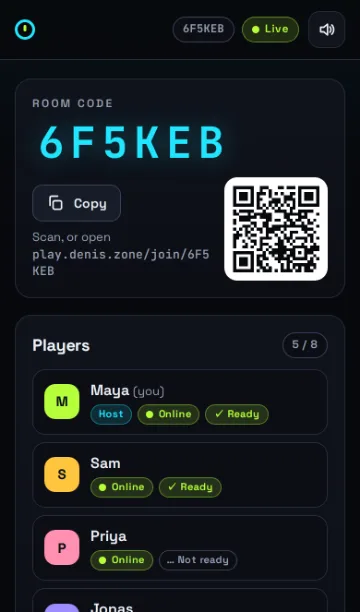
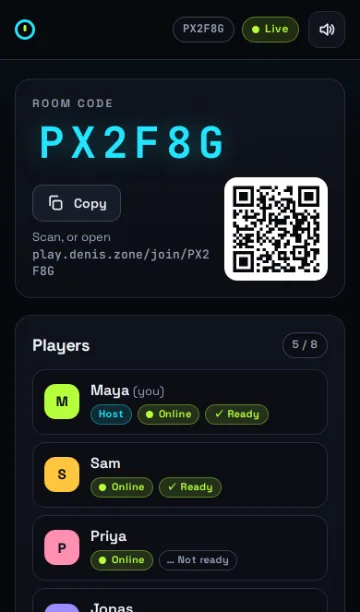
Last One Standing: all three screenshots from one five-player match
Lobby, Maya's first turn and the winner screen now come from the same
live room (PX2F8G), so the winner reads 4 rounds of 5 players.

diff --git a/index.html b/index.html
@@ -385,7 +385,7 @@ main#main-content{position:relative;isolation:isolate}
 <span class="output-line"> </span></div></div></div><div class="wrap hero"><div><div class="eyebrow">Denis Martins / Software Engineer</div><h1>I make<br>things <em>work.</em></h1><p class="lead">I like making complicated things simpler. Sometimes that means untangling software that keeps a business running. Other times it means building a word game because the idea wouldn’t leave me alone.</p><div class="hero-links"><a href="#work">Selected work ↗</a><a href="#about">A bit about me ↗</a></div></div><div class="terminal" aria-label="Interactive terminal"><div class="terminal-bar"><span>denis@zone: ~</span><span>– □ ×</span></div><div class="terminal-inner" id="term-area"><div class="out"><span class="prompt">$</span> <span class="command">whoami</span><br>Denis Martins<br>Software engineer. Arsenal supporter.<br>Usually planning the next trip.</div><div class="out"><span class="prompt">$</span> <span class="command">ls</span><br><span class="prompt">work/ &nbsp; projects/ &nbsp; notes/ &nbsp; life/</span></div><form id="terminal-form"><span class="prompt">$</span><input id="terminal-input" aria-label="Enter a terminal command" placeholder="type help" autocapitalize="off" autocomplete="off" spellcheck="false"></form><div class="hint terminal-hint"><span class="hint-label">Try a command:</span> <button type="button" data-terminal-command="help">help</button> <button type="button" data-terminal-command="experience">experience</button> <button type="button" data-terminal-command="projects">projects</button> <button type="button" data-terminal-command="random">random</button></div></div></div></div><div class="rule"><section class="wrap section" id="work"><div class="section-top"><div><span class="eyebrow">01 / Things I’ve made</span><h2>Selected work</h2></div><p class="section-note">Things I’ve built, things I’m figuring out, and the occasional idea that got out of hand.</p></div><div class="work-list">
 <div class="work-project"><div class="work-item"><span class="number">01</span><span class="work-name">The day job</span><span class="work-copy">APIs, integrations and the platforms behind them, on Azure and AWS.</span><details class="project-peek" open id="sys-peek"><summary aria-label="Preview the day job"><span aria-hidden="true">+</span></summary></details></div><div class="work-preview"><div class="preview-visual systems-visual" aria-label="Illustration of systems connecting"><span class="preview-kicker">BEHIND THE SCENES</span><svg class="sys-diagram sys-wide" viewBox="0 0 600 354" role="img" aria-labelledby="sys-t"><title id="sys-t">Sales journeys, an agent sales app and a renewal portal call a signup and orders API and an energy quoting API, which share a database. The quoting API calls energy supplier APIs directly. The APIs publish business events to a message bus; independent CRM, email and SMS bridges subscribe and sync each event to their external platform. Email activity feeds and SMS delivery receipts, which arrive by webhook, are published back to the bus.</title><defs><marker id="gw" viewBox="0 0 8 8" refX="7" refY="4" markerWidth="6" markerHeight="6" orient="auto"><path d="M0 0 8 4 0 8z" fill="#b0c69a"/></marker><marker id="ow" viewBox="0 0 8 8" refX="7" refY="4" markerWidth="6" markerHeight="6" orient="auto"><path d="M0 0 8 4 0 8z" fill="#dda980"/></marker></defs><text x="2" y="18" font-family="Geist Mono,ui-monospace,monospace" font-size="9" letter-spacing=".12em" fill="#8d978a">CLIENTS</text><rect x="106" y="4" width="330" height="326" rx="4" fill="none" stroke="#3a453c" stroke-dasharray="3 4"/><text x="114" y="18" font-family="Geist Mono,ui-monospace,monospace" font-size="9" letter-spacing=".12em" fill="#8d978a">CLOUD PLATFORM</text><rect x="444" y="4" width="154" height="326" rx="4" fill="none" stroke="#3a453c" stroke-dasharray="3 4"/><text x="452" y="18" font-family="Geist Mono,ui-monospace,monospace" font-size="9" letter-spacing=".12em" fill="#8d978a">EXTERNAL</text><g font-family="Geist Mono,ui-monospace,monospace" font-size="11" fill="#d9ddd4" text-anchor="middle"><rect x="0" y="44" width="94" height="40" rx="2" fill="#1b221d" stroke="#475149"/><text x="47.0" y="61.0">Sales</text><text x="47.0" y="75.0">journeys</text><rect x="0" y="132" width="94" height="40" rx="2" fill="#1b221d" stroke="#475149"/><text x="47.0" y="149.0">Agent</text><text x="47.0" y="163.0">sales app</text><rect x="0" y="220" width="94" height="40" rx="2" fill="#1b221d" stroke="#475149"/><text x="47.0" y="237.0">Renewal</text><text x="47.0" y="251.0">portal</text><rect x="120" y="52" width="108" height="44" rx="2" fill="#20291f" stroke="#b0c69a"/><text x="174.0" y="71.0" fill="#b0c69a">Signup &amp;</text><text x="174.0" y="85.0" fill="#b0c69a">orders API</text><rect x="128" y="128" width="92" height="34" rx="2" fill="#1b221d" stroke="#475149"/><text x="163" y="149.0">Shared DB</text><path d="M200 138.0v12a6 2.4 0 0 0 12 0v-12" fill="#141917" stroke="#7f8f7c"/><ellipse cx="206" cy="138.0" rx="6" ry="2.4" fill="#141917" stroke="#7f8f7c"/><rect x="120" y="196" width="108" height="44" rx="2" fill="#20291f" stroke="#b0c69a"/><text x="174.0" y="215.0" fill="#b0c69a">Energy</text><text x="174.0" y="229.0" fill="#b0c69a">quoting API</text><rect x="246" y="36" width="22" height="240" rx="2" fill="#20291f" stroke="#b0c69a"/><text x="257" y="156" fill="#b0c69a" font-size="10" letter-spacing=".14em" transform="rotate(-90 257 156)" dy="3.5">MESSAGE BUS</text><rect x="286" y="44" width="140" height="40" rx="2" fill="#1b221d" stroke="#475149"/><text x="356.0" y="68.0">CRM bridge</text><rect x="286" y="132" width="140" height="40" rx="2" fill="#1b221d" stroke="#475149"/><text x="356.0" y="156.0">Email bridge</text><rect x="286" y="220" width="140" height="40" rx="2" fill="#1b221d" stroke="#475149"/><text x="356.0" y="244.0">SMS service</text><rect x="454" y="44" width="136" height="40" rx="2" fill="#1b221d" stroke="#475149"/><text x="522.0" y="68.0">CRM</text><rect x="454" y="132" width="136" height="40" rx="2" fill="#1b221d" stroke="#475149"/><text x="522.0" y="156.0">Email marketing</text><rect x="454" y="220" width="136" height="40" rx="2" fill="#1b221d" stroke="#475149"/><text x="522.0" y="244.0">SMS provider</text><rect x="454" y="288" width="136" height="36" rx="2" fill="#1b221d" stroke="#475149"/><text x="522.0" y="310.0">Energy suppliers</text></g><g fill="none" stroke="#7f8f7c" stroke-width="1.2"><path d="M174 96V128"/><path d="M174 196V162"/></g><g fill="none" stroke="#b0c69a" stroke-width="1.4" marker-end="url(#gw)"><path d="M94 62C108 62 104 68 118 68"/><path d="M94 72C110 72 102 212 118 212"/><path d="M94 148C108 148 104 84 118 84"/><path d="M94 158C110 158 102 226 118 226"/><path d="M94 240C110 240 102 92 118 92"/><path d="M426 64H452"/><path d="M426 152H452"/><path d="M426 240H452"/><path d="M228 232C240 232 238 306 252 306H452"/></g><g fill="none" stroke="#b0c69a" stroke-width="1.4" stroke-dasharray="4 3" marker-end="url(#gw)"><path d="M228 74H244"/><path d="M228 218H244"/><path d="M268 58H284"/><path d="M268 146H284"/><path d="M268 234H284"/><path d="M286 162H270"/><path d="M286 250H270"/><path d="M452 164H428"/></g><g fill="none" stroke="#dda980" stroke-width="1.2" stroke-dasharray="4 3" marker-end="url(#ow)"><path d="M452 252H428"/></g><text x="356" y="186" font-family="Geist Mono,ui-monospace,monospace" font-size="9" fill="#8fa58a" text-anchor="middle">activity feed</text><text x="356" y="274" font-family="Geist Mono,ui-monospace,monospace" font-size="9" fill="#dda980" text-anchor="middle">delivery receipts</text><g font-family="Geist Mono,ui-monospace,monospace" font-size="10" fill="#a3a99e"><path d="M2 342h22" stroke="#b0c69a" stroke-width="1.4"/><text x="30" y="346">HTTP / REST</text><path d="M150 342h22" stroke="#b0c69a" stroke-width="1.4" stroke-dasharray="4 3"/><text x="178" y="346">events &amp; feeds</text><path d="M320 342h22" stroke="#dda980" stroke-width="1.2" stroke-dasharray="4 3"/><text x="348" y="346">webhooks</text></g></svg><svg class="sys-diagram sys-tall" viewBox="0 0 322 448" role="img" aria-labelledby="sys-t2"><title id="sys-t2">Sales journeys, an agent sales app and a renewal portal call a signup and orders API and an energy quoting API, which share a database. The quoting API calls energy supplier APIs directly. The APIs publish business events to a message bus; independent CRM, email and SMS bridges subscribe and sync each event to their external platform. Email activity feeds and SMS delivery receipts, which arrive by webhook, are published back to the bus.</title><defs><marker id="gt" viewBox="0 0 8 8" refX="7" refY="4" markerWidth="6" markerHeight="6" orient="auto"><path d="M0 0 8 4 0 8z" fill="#b0c69a"/></marker><marker id="ot" viewBox="0 0 8 8" refX="7" refY="4" markerWidth="6" markerHeight="6" orient="auto"><path d="M0 0 8 4 0 8z" fill="#dda980"/></marker></defs><text x="2" y="10" font-family="Geist Mono,ui-monospace,monospace" font-size="9" letter-spacing=".12em" fill="#8d978a">CLIENTS</text><rect x="0" y="70" width="322" height="232" rx="4" fill="none" stroke="#3a453c" stroke-dasharray="3 4"/><text x="8" y="84" font-family="Geist Mono,ui-monospace,monospace" font-size="9" letter-spacing=".12em" fill="#8d978a">CLOUD PLATFORM</text><rect x="0" y="318" width="322" height="96" rx="4" fill="none" stroke="#3a453c" stroke-dasharray="3 4"/><text x="8" y="332" font-family="Geist Mono,ui-monospace,monospace" font-size="9" letter-spacing=".12em" fill="#8d978a">EXTERNAL</text><g font-family="Geist Mono,ui-monospace,monospace" font-size="11" fill="#d9ddd4" text-anchor="middle"><rect x="6" y="16" width="100" height="40" rx="2" fill="#1b221d" stroke="#475149"/><text x="56.0" y="33.0">Sales</text><text x="56.0" y="47.0">journeys</text><rect x="111" y="16" width="100" height="40" rx="2" fill="#1b221d" stroke="#475149"/><text x="161.0" y="33.0">Agent</text><text x="161.0" y="47.0">sales app</text><rect x="216" y="16" width="100" height="40" rx="2" fill="#1b221d" stroke="#475149"/><text x="266.0" y="33.0">Renewal</text><text x="266.0" y="47.0">portal</text><rect x="6" y="96" width="100" height="40" rx="2" fill="#20291f" stroke="#b0c69a"/><text x="56.0" y="113.0" fill="#b0c69a">Signup &amp;</text><text x="56.0" y="127.0" fill="#b0c69a">orders API</text><rect x="112" y="100" width="96" height="32" rx="2" fill="#1b221d" stroke="#475149"/><text x="146" y="120.0">Shared DB</text><path d="M188 109.0v12a6 2.4 0 0 0 12 0v-12" fill="#141917" stroke="#7f8f7c"/><ellipse cx="194" cy="109.0" rx="6" ry="2.4" fill="#141917" stroke="#7f8f7c"/><rect x="214" y="96" width="102" height="40" rx="2" fill="#20291f" stroke="#b0c69a"/><text x="265.0" y="113.0" fill="#b0c69a">Energy</text><text x="265.0" y="127.0" fill="#b0c69a">quoting API</text><rect x="6" y="196" width="282" height="22" rx="2" fill="#20291f" stroke="#b0c69a"/><text x="147" y="211" fill="#b0c69a" font-size="10" letter-spacing=".14em">MESSAGE BUS</text><rect x="6" y="248" width="90" height="36" rx="2" fill="#1b221d" stroke="#475149"/><text x="51.0" y="270.0">CRM bridge</text><rect x="102" y="248" width="90" height="36" rx="2" fill="#1b221d" stroke="#475149"/><text x="147.0" y="270.0">Email bridge</text><rect x="198" y="248" width="90" height="36" rx="2" fill="#1b221d" stroke="#475149"/><text x="243.0" y="270.0">SMS service</text><rect x="6" y="344" width="74" height="40" rx="2" fill="#1b221d" stroke="#475149"/><text x="43.0" y="368.0">CRM</text><rect x="84" y="344" width="74" height="40" rx="2" fill="#1b221d" stroke="#475149"/><text x="121.0" y="361.0">Email</text><text x="121.0" y="375.0">marketing</text><rect x="162" y="344" width="74" height="40" rx="2" fill="#1b221d" stroke="#475149"/><text x="199.0" y="361.0">SMS</text><text x="199.0" y="375.0">provider</text><rect x="240" y="344" width="76" height="40" rx="2" fill="#1b221d" stroke="#475149"/><text x="278.0" y="361.0">Energy</text><text x="278.0" y="375.0">suppliers</text></g><g fill="none" stroke="#7f8f7c" stroke-width="1.2"><path d="M106 116H112"/><path d="M214 116H208"/></g><g fill="none" stroke="#b0c69a" stroke-width="1.4"><path d="M56 56V65M161 56V65M266 56V65M56 65H266"/></g><g fill="none" stroke="#b0c69a" stroke-width="1.4" marker-end="url(#gt)"><path d="M56 65V94"/><path d="M265 65V94"/><path d="M45 284V342"/><path d="M150 284C150 314 140 314 140 342"/><path d="M245 284C245 314 226 314 226 342"/><path d="M302 136V306C302 326 290 322 290 342"/></g><g fill="none" stroke="#b0c69a" stroke-width="1.4" stroke-dasharray="4 3" marker-end="url(#gt)"><path d="M40 136V194"/><path d="M240 136V194"/><path d="M45 218V246"/><path d="M141 218V246"/><path d="M237 218V246"/><path d="M160 248V220"/><path d="M256 248V220"/><path d="M98 342C98 314 116 314 116 286"/></g><g fill="none" stroke="#dda980" stroke-width="1.2" stroke-dasharray="4 3" marker-end="url(#ot)"><path d="M172 342C172 314 208 314 208 286"/></g><g font-family="Geist Mono,ui-monospace,monospace" font-size="10" fill="#a3a99e"><path d="M2 436h22" stroke="#b0c69a" stroke-width="1.4"/><text x="30" y="440">HTTP / REST</text><path d="M106 436h20" stroke="#b0c69a" stroke-width="1.4" stroke-dasharray="4 3"/><text x="131" y="440">events &amp; feeds</text><path d="M230 436h20" stroke="#dda980" stroke-width="1.2" stroke-dasharray="4 3"/><text x="255" y="440">webhooks</text></g></svg><div class="runs-on"><span class="preview-kicker">RUNS ON THE CLOUD</span><ul><li>Containers</li><li>Serverless functions</li><li>Message queues</li><li>Infrastructure as code</li><li>CI/CD pipelines</li><li>Monitoring &amp; tracing</li></ul></div><span class="preview-small">A simplified picture, not a production diagram</span></div><div class="preview-copy"><span class="eyebrow">01 / ENGINEERING</span><h3>Make the pieces work together.</h3><p>Platform modernisation, supplier integrations, APIs and event-driven workflows, built and run in the cloud on Azure and AWS. The kind of engineering you notice most when it stops working.</p><a href="experience.html" class="preview-link"><svg class="ui-icon" viewBox="0 0 24 24" width="15" height="15" fill="none" stroke="currentColor" stroke-width="1.6" stroke-linecap="round" stroke-linejoin="round" aria-hidden="true"><path d="M3 5h7a4 4 0 0 1 4 4v11a4 4 0 0 0-4-4H3zM21 5h-7a4 4 0 0 0-4 4"/></svg>Explore my experience ↗</a></div></div></div>
 <div class="work-project"><div class="work-item"><span class="number">02</span><span class="work-name">Word Duel</span><span class="work-copy">A real-time word game where the server referees every move.</span><details class="project-peek" id="duel-peek"><summary aria-label="Preview Word Duel"><span aria-hidden="true">+</span></summary></details></div><button type="button" class="demo-cta" id="demo-cta">▸ Play the demo</button><div class="work-preview"><div class="preview-visual word-visual" aria-label="Playable Word Duel letter-tile mini demo"><span class="preview-kicker">A WORD LEADS TO ANOTHER</span><div class="word-mini" id="word-mini"><div class="word-feature-heading">WORD DUEL <span>MINI / 1 LETTER</span></div><div class="word-mini-meta"><span>CHANGE ONE LETTER</span><span id="word-mini-streak">STREAK 0</span></div><div class="word-mini-dashboard"><div class="word-mini-clock" role="timer" aria-label="Time remaining"><span>TIME LEFT</span><strong id="word-mini-time">1:00</strong></div><div class="word-mini-last"><span>LAST WORD</span><strong id="word-mini-last">—</strong></div></div><div class="word-mini-definition"><span>CURRENT WORD &amp; MEANING</span><div><strong id="word-mini-current">—</strong><p id="word-mini-meaning">Loading meaning…</p></div></div><div class="word-mini-history"><span>YOUR WORDS</span><div id="word-mini-history" aria-label="Words played in this round">—</div></div><div class="word-mini-tiles" id="word-mini-tiles" role="group" aria-label="Edit one letter to make a new four-letter word"></div><div class="word-mini-alphabet" id="word-mini-alphabet" aria-label="Choose a replacement letter"></div><div class="word-mini-controls"><button type="button" id="word-mini-submit">Submit word ↗</button><button type="button" id="word-mini-reset">New round ↻</button></div><div id="word-mini-feedback" class="word-mini-feedback" role="status" aria-live="polite">Tap a tile, then choose a letter.</div><span class="preview-small">Uses the four-letter dictionary from the full game · one change per move</span></div></div><div class="preview-copy"><span class="eyebrow">02 / PLAY</span><h3>One word. Your turn.</h3><p>Change exactly one letter to form a valid new word, without repeating a word. Try the four-letter demo, then play the full timed multiplayer game.</p><a href="https://duel.denis.zone/" target="_blank" rel="noopener noreferrer" class="preview-link"><svg class="ui-icon" viewBox="0 0 24 24" width="15" height="15" fill="none" stroke="currentColor" stroke-width="1.6" stroke-linecap="round" stroke-linejoin="round" aria-hidden="true"><path d="m8 5 11 7-11 7z"/></svg>Play the full game ↗</a><details class="engineering-details"><summary>How I built it <span aria-hidden="true">↘</span></summary><div class="engineering-content"><p class="engineering-intro">Word Duel looks simple on the surface. Underneath, it’s a real-time multiplayer system where every move must be fair, even when two players act at once or a connection drops.</p><div class="engineering-item"><span class="engineering-num">01</span><div><strong>One source of truth</strong><p>Each game room is a Cloudflare Durable Object that applies moves one at a time and pushes the new state to both players over WebSockets. Clients can display the game, but they cannot rewrite the room.</p></div></div><div class="engineering-item"><span class="engineering-num">02</span><div><strong>Rules that survive concurrency</strong><p>Dictionary checks, exact letter changes, turn ownership, deadlines and previously used words are enforced together. A shared used-word set persists across rematches.</p></div></div><div class="engineering-item"><span class="engineering-num">03</span><div><strong>Computer opponents without shortcuts</strong><p>The bot plays through the same server-side rules as a human. Easy, medium and hard modes vary think time and move strategy rather than bypassing validation.</p></div></div><div class="engineering-item"><span class="engineering-num">04</span><div><strong>The details matter</strong><p>Server-defined turn deadlines driven by alarms, cleanup of idle rooms, dictionary-based word meanings, and idempotent match-result recording keep the experience consistent.</p></div></div><div class="engineering-tech">Vite · JavaScript · Cloudflare Workers · Durable Objects · WebSockets · WordNet</div><a href="https://github.com/bornonthe12th/word-duel" target="_blank" rel="noopener noreferrer" class="preview-link"><svg class="ui-icon" viewBox="0 0 24 24" width="15" height="15" fill="none" stroke="currentColor" stroke-width="1.6" stroke-linecap="round" stroke-linejoin="round" aria-hidden="true"><path d="m8 8-4 4 4 4m8-8 4 4-4 4m-3-11-2 18"/></svg>Explore the source on GitHub ↗</a></div></details></div></div></div>
-<div class="work-project"><div class="work-item"><span class="number">03</span><span class="work-name">Last One Standing</span><span class="work-copy">A party game for 2–8 players: hold the button, let go on time, don’t be the worst.</span><details class="project-peek"><summary aria-label="Preview Last One Standing"><span aria-hidden="true">+</span></summary></details></div><div class="work-preview"><div class="preview-visual timer-visual"><span class="preview-kicker">TIMER SHOWDOWN / THE REAL GAME</span><div class="los-phones"><figure><img src="/assets/projects/los-lobby.webp" width="360" height="612" loading="lazy" decoding="async" alt="Last One Standing lobby with a room code, QR code and five players"><figcaption>Lobby</figcaption></figure><figure><img src="/assets/projects/los-turn.webp" width="360" height="612" loading="lazy" decoding="async" alt="A Precision Knockout turn mid-hold at 0.95 seconds against a 1.00 second target"><figcaption>Your turn</figcaption></figure><figure><img src="/assets/projects/los-winner.webp" width="360" height="612" loading="lazy" decoding="async" alt="Winner screen crowning Maya, with the match summary"><figcaption>Last one standing</figcaption></figure></div><div class="los-try"><span class="preview-small">Try it here</span><div class="timer-readout" id="timer-display" aria-label="Elapsed time in minutes, seconds and hundredths">00:00<span>.00</span></div><div class="timer-track" aria-hidden="true"><i id="timer-progress"></i></div><div class="timer-actions"><button type="button" id="timer-action">Start timer</button><span class="timer-feedback" id="timer-feedback" role="status" aria-live="polite">Try to stop at exactly 5.00 seconds.</span></div></div></div><div class="preview-copy"><span class="eyebrow">03 / GAME</span><h3>Timing is everything.</h3><p>Everyone holds a button and lets go on time. The worst attempt each round is knocked out until one player is left. Four game modes, a hidden-timer option, and Pass &amp; Play for one shared phone. Try the five-second challenge in the preview.</p><a href="https://play.denis.zone/" target="_blank" rel="noopener noreferrer" class="preview-link"><svg class="ui-icon" viewBox="0 0 24 24" width="15" height="15" fill="none" stroke="currentColor" stroke-width="1.6" stroke-linecap="round" stroke-linejoin="round" aria-hidden="true"><path d="m8 5 11 7-11 7z"/></svg>Play the full game ↗</a></div></div></div>
+<div class="work-project"><div class="work-item"><span class="number">03</span><span class="work-name">Last One Standing</span><span class="work-copy">A party game for 2–8 players: hold the button, let go on time, don’t be the worst.</span><details class="project-peek"><summary aria-label="Preview Last One Standing"><span aria-hidden="true">+</span></summary></details></div><div class="work-preview"><div class="preview-visual timer-visual"><span class="preview-kicker">TIMER SHOWDOWN / THE REAL GAME</span><div class="los-phones"><figure><img src="/assets/projects/los-lobby.webp" width="360" height="612" loading="lazy" decoding="async" alt="Last One Standing lobby with a room code, QR code and five players"><figcaption>Lobby</figcaption></figure><figure><img src="/assets/projects/los-turn.webp" width="360" height="612" loading="lazy" decoding="async" alt="A Precision Knockout turn mid-hold at 1.04 seconds against a 1.00 second target"><figcaption>Your turn</figcaption></figure><figure><img src="/assets/projects/los-winner.webp" width="360" height="612" loading="lazy" decoding="async" alt="Winner screen crowning Maya, with the match summary"><figcaption>Last one standing</figcaption></figure></div><div class="los-try"><span class="preview-small">Try it here</span><div class="timer-readout" id="timer-display" aria-label="Elapsed time in minutes, seconds and hundredths">00:00<span>.00</span></div><div class="timer-track" aria-hidden="true"><i id="timer-progress"></i></div><div class="timer-actions"><button type="button" id="timer-action">Start timer</button><span class="timer-feedback" id="timer-feedback" role="status" aria-live="polite">Try to stop at exactly 5.00 seconds.</span></div></div></div><div class="preview-copy"><span class="eyebrow">03 / GAME</span><h3>Timing is everything.</h3><p>Everyone holds a button and lets go on time. The worst attempt each round is knocked out until one player is left. Four game modes, a hidden-timer option, and Pass &amp; Play for one shared phone. Try the five-second challenge in the preview.</p><a href="https://play.denis.zone/" target="_blank" rel="noopener noreferrer" class="preview-link"><svg class="ui-icon" viewBox="0 0 24 24" width="15" height="15" fill="none" stroke="currentColor" stroke-width="1.6" stroke-linecap="round" stroke-linejoin="round" aria-hidden="true"><path d="m8 5 11 7-11 7z"/></svg>Play the full game ↗</a></div></div></div>
 
 </div></section></div><div class="rule"><section class="wrap section personal-section" id="about"><div class="section-top"><div><span class="eyebrow">02 / Beyond the keyboard</span><h2>A little more human.</h2></div><p class="section-note">Software pays the bills. There’s quite a bit more to me.</p></div><div class="personal-feature"><div><p class="personal-lead">Away from the screen, I’m usually lifting weights, worrying about Arsenal, planning the next trip or finding somewhere good to eat.</p></div></div><div class="about-strip"><a class="about-tile" href="about.html#football"><img src="/assets/photos/arsenal-dressing-room-480.webp" width="480" height="640" loading="lazy" decoding="async" alt=""><span class="at-label"><i>01 / Match day</i>Arsenal. Always.</span></a><a class="about-tile" href="about.html#places"><img src="/assets/photos/volcanic-rocks-480.webp" width="480" height="640" loading="lazy" decoding="async" alt=""><span class="at-label"><i>02 / Somewhere else</i>More stamps, fewer spreadsheets.</span></a><a class="about-tile" href="about.html#food"><img src="/assets/photos/restaurant-table-480.webp" width="480" height="854" loading="lazy" decoding="async" alt=""><span class="at-label"><i>03 / The good stuff</i>Food is part of the trip.</span></a><a class="about-tile" href="about.html#training"><img src="/assets/photos/gym-training-480.webp" width="480" height="945" loading="lazy" decoding="async" alt=""><span class="at-label"><i>04 / The gym</i>One more rep.</span></a></div><div class="personal-outro"><p>I’m curious by nature. Sometimes that ends in a side project; other times it ends in a conversation, an unexpected destination or another idea I probably didn’t need.</p><a class="personal-more" href="about.html">More about me <span aria-hidden="true">↗</span></a></div></section></div><div class="rule"><section class="wrap section notes-grid" id="notes"><div><div class="section-top"><div><span class="eyebrow">03 / Notebook</span><h2>Notes from the bench</h2></div></div><div class="entry"><span class="entry-date">NOTE 01</span><div><a class="entry-title" href="notes/building-word-duel.html">A word game became a systems problem <span class="nudge" aria-hidden="true">↗</span></a><p class="entry-text">Server-side rules, real-time multiplayer and the engineering behind Word Duel.</p><span class="entry-published"><svg class="ui-icon" viewBox="0 0 24 24" width="15" height="15" fill="none" stroke="currentColor" stroke-width="1.6" stroke-linecap="round" stroke-linejoin="round" aria-hidden="true"><rect x="3" y="5" width="18" height="16" rx="2"/><path d="M7 3v4m10-4v4M3 10h18"/></svg><time datetime="2026-10-19">19 Oct 2026</time> <span aria-hidden="true">·</span> <svg class="ui-icon" viewBox="0 0 24 24" width="15" height="15" fill="none" stroke="currentColor" stroke-width="1.6" stroke-linecap="round" stroke-linejoin="round" aria-hidden="true"><circle cx="12" cy="12" r="9"/><path d="M12 7v5l3 2"/></svg>2 min read</span></div></div><div class="entry"><span class="entry-date">NOTE 02</span><div><a class="entry-title" href="notes/conversations-were-losing-to-ai.html">The Conversations We’re Losing to AI <span class="nudge" aria-hidden="true">↗</span></a><p class="entry-text">What happens to engineering teams when everyone solves problems with an assistant?</p><span class="entry-published"><svg class="ui-icon" viewBox="0 0 24 24" width="15" height="15" fill="none" stroke="currentColor" stroke-width="1.6" stroke-linecap="round" stroke-linejoin="round" aria-hidden="true"><rect x="3" y="5" width="18" height="16" rx="2"/><path d="M7 3v4m10-4v4M3 10h18"/></svg><time datetime="2026-06-14">14 Jun 2026</time> <span aria-hidden="true">·</span> <svg class="ui-icon" viewBox="0 0 24 24" width="15" height="15" fill="none" stroke="currentColor" stroke-width="1.6" stroke-linecap="round" stroke-linejoin="round" aria-hidden="true"><circle cx="12" cy="12" r="9"/><path d="M12 7v5l3 2"/></svg>4 min read</span></div></div><div class="entry"><span class="entry-date">NOTE 03</span><div><a class="entry-title" href="notes/modernising-without-rewriting.html">Modernising without starting again <span class="nudge" aria-hidden="true">↗</span></a><p class="entry-text">Lessons from upgrading mature systems without rewriting everything.</p><span class="entry-published"><svg class="ui-icon" viewBox="0 0 24 24" width="15" height="15" fill="none" stroke="currentColor" stroke-width="1.6" stroke-linecap="round" stroke-linejoin="round" aria-hidden="true"><rect x="3" y="5" width="18" height="16" rx="2"/><path d="M7 3v4m10-4v4M3 10h18"/></svg><time datetime="2026-02-03">3 Feb 2026</time> <span aria-hidden="true">·</span> <svg class="ui-icon" viewBox="0 0 24 24" width="15" height="15" fill="none" stroke="currentColor" stroke-width="1.6" stroke-linecap="round" stroke-linejoin="round" aria-hidden="true"><circle cx="12" cy="12" r="9"/><path d="M12 7v5l3 2"/></svg>1 min read</span></div></div></div></section></div><div class="rule"><section class="wrap section contact" id="contact"><div class="contact-grid"><div class="contact-main"><span class="eyebrow">04 / Contact</span><h2>Get in touch</h2><p class="contact-line">Have a project, an interesting engineering problem, or just want to say hello?</p><div class="contact-actions"><a class="btn-primary" href="mailto:hello@denis.zone"><svg viewBox="0 0 24 24" fill="none" stroke="currentColor" stroke-width="1.8" stroke-linecap="round" stroke-linejoin="round" aria-hidden="true"><rect x="3" y="5" width="18" height="14" rx="2"/><path d="m3 7 9 6 9-6"/></svg>Email me</a><button type="button" class="btn-ghost" id="copy-email" data-email="hello@denis.zone"><svg viewBox="0 0 24 24" fill="none" stroke="currentColor" stroke-width="1.6" stroke-linecap="round" stroke-linejoin="round" aria-hidden="true"><rect x="8" y="8" width="12" height="12" rx="2"/><path d="M16 8V5a2 2 0 0 0-2-2H5a2 2 0 0 0-2 2v9a2 2 0 0 0 2 2h3"/></svg><span>Copy address</span></button></div><p class="contact-address">hello@denis.zone</p><span class="sr-only" id="copy-email-status" role="status" aria-live="polite"></span></div><ul class="contact-links" aria-label="Elsewhere online"><li><a href="https://github.com/bornonthe12th" target="_blank" rel="noopener noreferrer"><span class="cl-icon"><svg viewBox="0 0 24 24" fill="currentColor" aria-hidden="true"><path d="M12 1a11 11 0 0 0-3.48 21.44c.55.1.75-.24.75-.53v-2.02c-3.07.67-3.72-1.31-3.72-1.31-.5-1.28-1.23-1.63-1.23-1.63-1-.69.08-.68.08-.68 1.11.08 1.69 1.14 1.69 1.14.98 1.68 2.58 1.2 3.21.92.1-.72.38-1.2.69-1.48-2.45-.28-5.03-1.23-5.03-5.47 0-1.21.43-2.19 1.14-2.96-.11-.28-.49-1.4.11-2.92 0 0 .93-.3 3.02 1.13a10.6 10.6 0 0 1 5.5 0c2.09-1.42 3.02-1.13 3.02-1.13.6 1.52.22 2.64.11 2.92.71.77 1.14 1.75 1.14 2.96 0 4.25-2.58 5.18-5.04 5.46.39.34.74 1.01.74 2.04v3.04c0 .29.2.64.76.53A11 11 0 0 0 12 1Z"/></svg></span><span class="cl-name">GitHub</span><span class="cl-handle">bornonthe12th</span><span class="cl-arrow" aria-hidden="true">↗</span></a></li><li><a href="https://www.linkedin.com/in/martinsdenis/" target="_blank" rel="noopener noreferrer"><span class="cl-icon"><svg viewBox="0 0 24 24" fill="currentColor" aria-hidden="true"><path d="M20 2H4a2 2 0 0 0-2 2v16a2 2 0 0 0 2 2h16a2 2 0 0 0 2-2V4a2 2 0 0 0-2-2ZM8 18.5H5V9h3v9.5ZM6.5 7.7a1.7 1.7 0 1 1 0-3.4 1.7 1.7 0 0 1 0 3.4ZM19 18.5h-3v-4.6c0-1.1-.02-2.5-1.53-2.5-1.54 0-1.77 1.2-1.77 2.42v4.68h-3V9h2.88v1.3h.04c.4-.76 1.38-1.56 2.84-1.56 3.04 0 3.54 2 3.54 4.54v5.22Z"/></svg></span><span class="cl-name">LinkedIn</span><span class="cl-handle">martinsdenis</span><span class="cl-arrow" aria-hidden="true">↗</span></a></li><li><a href="https://x.com/bornonthe12th" target="_blank" rel="noopener noreferrer"><span class="cl-icon"><svg viewBox="0 0 24 24" fill="currentColor" aria-hidden="true"><path d="M18.9 2H22l-6.8 7.77L23.2 22h-6.26l-4.9-7.43L5.54 22H2.4l7.27-8.31L1.99 2h6.42l4.43 6.77L18.9 2Zm-1.1 18h1.73L7.47 3.9H5.61L17.8 20Z"/></svg></span><span class="cl-name">X</span><span class="cl-handle">@bornonthe12th</span><span class="cl-arrow" aria-hidden="true">↗</span></a></li></ul></div></section></div></main><footer class="site-footer"><div class="wrap site-foot"><span>© <span id="year">2026</span> Denis Martins</span><span><a href="https://github.com/bornonthe12th" target="_blank" rel="noopener noreferrer">GitHub ↗</a> · <a href="https://www.linkedin.com/in/martinsdenis/" target="_blank" rel="noopener noreferrer">LinkedIn ↗</a> · <a href="#top">↑ Back to top</a></span></div></footer><script>document.getElementById("year").textContent=new Date().getFullYear()</script><script>
 
